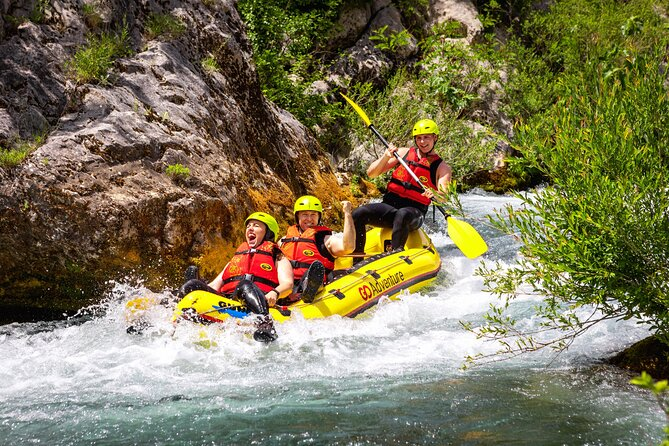
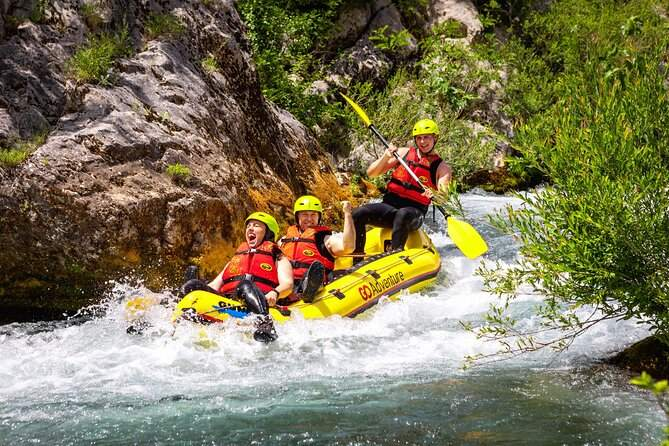
perf: optimize and compress images for faster load times

diff --git a/wwr/trips.html b/wwr/trips.html
@@ -5,7 +5,7 @@
     <meta charset="UTF-8">
     <meta name="viewport" content="width=device-width, initial-scale=1">
     <meta name="description"
-        content="Explore our exciting white water rafting trips! View trip details, photos, and contact us to book your adventure.">
+      content="Explore our exciting white water rafting trips! View trip details, photos, and contact us to book your adventure.">
     <meta name="author" content="Williams Olisebinum">
     <title>White Water Rafting | Trips</title>
 
@@ -34,12 +34,12 @@
 
         <!-- HERO SECTION WITH CTA -->
         <section class="hero">
-            <img src="images/rafting-banner.webp" alt="Rafting adventure on the river">
+            <img src="images/rafting-banner.jpg" alt="Rafting adventure on the river">
             <h1>Our Exciting Rafting Trips</h1>
             <article>
-                 <h2>Book Your Trip</h2>    
-                <p>Ready for adventure? Explore our range of rafting trips for all skill levels. 
-                   Contact us today to book your trip!</p>
+                <h2>Book Your Trip</h2>
+                <p>Ready for adventure? Explore our range of rafting trips for all skill levels.
+                    Contact us today to book your trip!</p>
                 <a href="contact.html" class="cta-btn">Contact Us</a>
             </article>
         </section>
@@ -51,19 +51,22 @@
                 <div class="trip-card">
                     <img src="images/rafting.jpg" alt="Rafters conquering rapids">
                     <h3>Whitewater Rapids</h3>
-                    <p>Challenge yourself on Class III and IV rapids guided by our expert instructors. Thrilling for experienced rafters!</p>
+                    <p>Challenge yourself on Class III and IV rapids guided by our expert
+                        instructors. Thrilling for experienced rafters!</p>
                 </div>
 
                 <div class="trip-card">
                     <img src="images/family.jpg" alt="Family enjoying calm river rafting">
                     <h3>Family Adventure</h3>
-                    <p>A gentle and scenic rafting experience perfect for families and beginners. Create memories together on calm waters.</p>
+                    <p>A gentle and scenic rafting experience perfect for families and beginners.
+                        Create memories together on calm waters.</p>
                 </div>
 
                 <div class="trip-card">
                     <img src="images/scenic-trip.jpg" alt="Scenic river surrounded by canyons">
                     <h3>Scenic Canyon Trip</h3>
-                    <p>Relax as we float through breathtaking canyons and enjoy nature’s beauty. Ideal for photographers and nature lovers.</p>
+                    <p>Relax as we float through breathtaking canyons and enjoy nature’s beauty.
+                        Ideal for photographers and nature lovers.</p>
                 </div>
             </div>
         </section>

diff --git a/wwr/index.html b/wwr/index.html
@@ -5,7 +5,7 @@
     <meta charset="UTF-8">
     <meta name="viewport" content="width=device-width, initial-scale=1.0">
     <meta name="description"
-        content="Welcome to White Water Rafting! Explore thrilling adventures, sign up for our newsletter, and book your next rafting trip.">
+      content="Welcome to White Water Rafting! Explore thrilling adventures, sign up for our newsletter, and book your next rafting trip.">
     <meta name="author" content="Olise Ebinum">
     <title>White Water Rafting | Home</title>
     <link rel="stylesheet" href="styles/rafting.css">
@@ -28,10 +28,11 @@
 
     <!-- HERO -->
     <section class="hero">
-        <img src="images/rafting-banner.webp" alt="Rafting adventure on the river">
+        <img src="images/rafting-banner.jpg" alt="Rafting adventure on the river">
         <div class="hero-text">
             <h1>Life is a Journey – Adventure Awaits!</h1>
-            <p>Feel the thrill of white water rafting with expert guides and breathtaking rivers.</p>
+            <p>Feel the thrill of white water rafting with expert guides and breathtaking rivers.
+            </p>
             <a href="trips.html" class="cta-btn">Explore Trips</a>
         </div>
     </section>
@@ -60,13 +61,13 @@
         </div>
 
         <div class="grid-item">
-            <img src="images/scenic-rivers.webp" alt="Scenic rivers and canyons">
+            <img src="images/scenic-rivers.jpg" alt="Scenic rivers and canyons">
             <h3>Scenic Rivers</h3>
             <p>Experience nature’s beauty while navigating thrilling rapids and serene waters.</p>
         </div>
 
         <div class="grid-item">
-            <img src="images/historic-raft.webp" alt="Big waves adventure">
+            <img src="images/surfing-adventure-compressed.jpg" alt="Big waves adventure">
             <h3>Big Waves</h3>
             <p>Feel the thrill as you conquer exciting waves with our expert guides.</p>
         </div>

diff --git a/wwr/about.html b/wwr/about.html
@@ -9,7 +9,7 @@
     <meta name="author" content="Williams Olisebinum">
     <title>White Water Rafting | About Us</title>
 
-    <link rel="stylesheet" href="styles/rafting.css" >
+    <link rel="stylesheet" href="styles/rafting.css">
 </head>
 
 <body id="about">
@@ -26,7 +26,7 @@
                 <li><a href="about.html" class="active">About Us</a></li>
                 <li><a href="trips.html">Trips</a></li>
                 <li><a href="contact.html">Contact Us</a></li>
-                
+
             </ul>
         </nav>
     </header>
@@ -38,12 +38,12 @@
 
         <!-- HERO SECTION -->
         <div class="hero">
-            <img src="images/rafting-banner.webp" alt="Rafting adventure on the river">
+            <img src="images/rafting-banner.jpg" alt="Rafting adventure on the river">
 
             <h1>White Water Rafting Adventures</h1>
 
             <article>
-                 <h2>Our Story</h2>
+                <h2>Our Story</h2>
                 <img src="images/happy-employee.jpg" alt="Smiling rafting guest enjoying the river">
 
                 <p>
@@ -99,7 +99,7 @@
                 </figure>
 
                 <figure>
-                    <img src="images/scenic-rivers.webp"
+                    <img src="images/scenic-rivers.jpg"
                       alt="Beautiful canyon scenery during rafting trip">
                     <figcaption>Scenic River</figcaption>
                 </figure>
